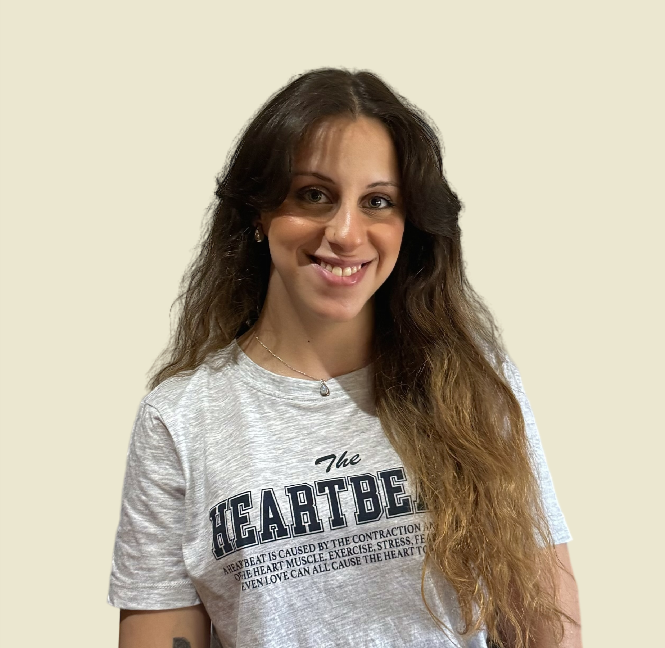
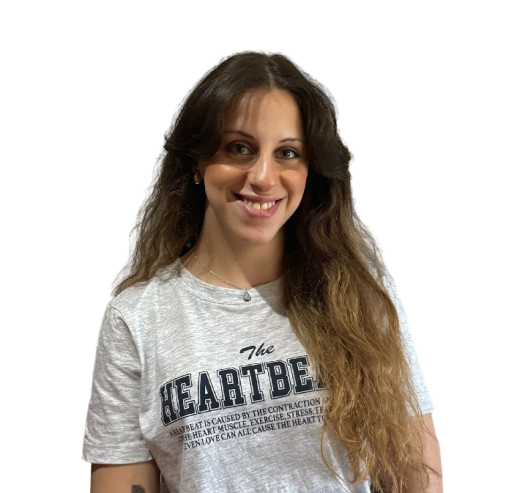
componentes de home, contact y aboutme hechos y estilizados

diff --git a/src/Pages/AbMePage/AbMePage.jsx b/src/Pages/AbMePage/AbMePage.jsx
@@ -1,9 +1,45 @@
 import "./AbMePage.css";
+import { FaHtml5 , FaCss3 , FaJs , FaReact , FaAngular , FaNodeJs , FaDatabase , FaGithubAlt } from 'react-icons/fa';
+
 
 function AbMePage() {
   return (
-    <div>
+    
+  <div className="divAbMe">
+   
+    <section className="about-me cardContact">
+    <h2 className="about-title">SOBRE MÍ</h2>
+    
+    <div className="about-content">
+      <p>
+        ¡Hola! Soy una <strong>desarrolladora web</strong> apasionada por crear experiencias digitales atractivas y funcionales.
+        Me encanta trabajar con tecnologías como <strong>React</strong>, <strong>JavaScript</strong> y <strong>CSS</strong>, enfocándome en la estética y la usabilidad.
+      </p>
+      <p>
+        Me gusta aprender constantemente y resolver retos creativos. Busco siempre escribir <strong>código limpio</strong> y aportar soluciones que marquen la diferencia.
+      </p>
+      <p>
+        Fuera del teclado disfruto compartiendo conocimientos, explorando nuevas herramientas y colaborando en proyectos que inspiren.
+      </p>
+      <h3 className="skills-title">Tecnologías que uso:</h3>
+      <ul className="skills-list">
+        <li><FaReact color="#1C7C8C" size="20px"/> React</li>
+        <li><FaJs color="#D1B400" size="20px" /> JavaScript</li>
+        <li><FaHtml5 color="#E34F26" size="20px" /> <FaCss3 color="#1572B6" size="20px"/> HTML & CSS</li>
+        <li><FaAngular color="#DD0031" size="20px" /> Angular</li>
+        <li><FaDatabase color="#4E4E4E" size="20px" /> MongoDB</li>
+        <li><FaNodeJs color="#5A8F43" size="20px" /> NodeJs</li>
+        <li><FaGithubAlt color="#6e5494" size="20px" /> GitHub</li>
+      </ul>
     </div>
+    </section>
+
+    <section>
+      <img className="myPhoto" src="src\images\foto1-CV.png" alt="imagen-mia" />
+    </section>
+
+  </div>
+
   )
 }
 

diff --git a/src/Pages/Home/Info/Info.jsx b/src/Pages/Home/Info/Info.jsx
@@ -1,5 +1,5 @@
 import "./Info.css";
-import { FaGithub, FaLinkedin } from 'react-icons/fa';
+import { FaGithub, FaLinkedin, FaPhoneAlt , FaEnvelope } from 'react-icons/fa';
 
 function Info() {
   return (
@@ -9,11 +9,11 @@ function Info() {
         Raquel Manajreh Alaboud
     </h2>
       <p>
-        📧 raquel.fsdev@gmail.com
+      <FaEnvelope style={{ color: '#2A2A2A', fontSize: '18px' }} /> raquel.fsdev@gmail.com
       </p>
-      <p>📱+34 608076099</p>
-      <p><FaGithub className="icons" style={{ color: '#1A1A1A', fontSize: '20px' }} /><a className="rrss" href="https://github.com/raquel-manajreh" target="_blank">GitHub</a></p>
-        <p><FaLinkedin className="icons" style={{ color: '#1A1A1A', fontSize: '20px' }} /><a className="rrss" href="https://www.linkedin.com/in/raquel-manajreh-alaboud-396811321/" target="_blank">
+      <p><FaPhoneAlt style={{ color: '#2A2A2A', fontSize: '18px' }}/> +34 608076099</p>
+      <p><FaGithub className="icons" style={{ color: '#2A2A2A', fontSize: '18px' }} /><a className="rrss" href="https://github.com/raquel-manajreh" target="_blank">GitHub</a></p>
+        <p><FaLinkedin className="icons" style={{ color: '#2A2A2A', fontSize: '18px' }} /><a className="rrss" href="https://www.linkedin.com/in/raquel-manajreh-alaboud-396811321/" target="_blank">
         Linkedin
         </a></p>
     </div>

diff --git a/src/Pages/AbMePage/AbMePage.css b/src/Pages/AbMePage/AbMePage.css
@@ -1,0 +1,60 @@
+.divAbMe{
+    display: flex;
+    flex-direction: row;
+    align-items: center;
+    gap: 60px;
+}
+.about-me {
+    padding: 30px 30px 0px 30px;
+    border-radius: 20px;
+    margin-left: 150px;
+    max-width: 640px;
+    height: 500px;
+    box-shadow: 0 4px 12px rgba(0,0,0,0.1);
+  }
+  
+  .about-title {
+    font-size: 36px;
+    text-align: center;
+    color: #333;
+    margin-bottom: 20px;
+  }
+  
+  .about-content p {
+    font-size: 18px;
+    line-height: 1.6;
+    color: #444;
+  }
+  
+  .skills-title {
+    font-size: 22px;
+    margin-top: 25px;
+    color: #333;
+  }
+  
+  .skills-list {
+    list-style: none;
+    padding: 0;
+    display: flex;
+    flex-wrap: wrap;
+    gap: 12px;
+    margin-top: 16px;
+  }
+  
+  .skills-list li {
+    background-color: #d1b796;
+    padding: 6px 12px;
+    border-radius: 12px;
+    font-size: 16px;
+    color: #2d2d2d;
+    box-shadow: 2px 2px 5px rgba(0,0,0,0.1);
+  }
+  .myPhoto{
+    width: 400px;
+    height: auto;
+    /* background: rgba(91, 73, 43, 0.616); */
+    background: rgba(136, 118, 82, 0.478);
+    border-radius: 12px;
+  box-shadow: 0 0 20px 8px rgba(136, 118, 82, 0.478);
+  }
+  

diff --git a/src/components/NavBar/NavBar.jsx b/src/components/NavBar/NavBar.jsx
@@ -5,12 +5,12 @@ function NavBar({setCurrentPage}) {
    <header>
      <nav className="navBar">
           <ul className="ulList">
-              <li><button onClick={()=> setCurrentPage("home")} className="home">Home</button></li>
+              <li><button onClick={()=> setCurrentPage("home")} className="home">HOME</button></li>
               <li><button 
               onClick={()=> setCurrentPage("aboutMe")} 
-              className="aboutMe">About Me</button></li>
-              <li><button onClick={()=> setCurrentPage("contact")} className="contact">Contact</button></li>
-              <li><button className="projects">Projects</button></li>
+              className="aboutMe">ABOUT ME</button></li>
+              <li><button onClick={()=> setCurrentPage("contact")} className="contact">CONTACT</button></li>
+              <li><button className="projects">PROJECTS</button></li>
           </ul>
      </nav>
    </header> 

diff --git a/src/components/NavBar/NavBar.css b/src/components/NavBar/NavBar.css
@@ -23,7 +23,7 @@ button:hover {
 }
 
 .ulList{
-    font-size: 16px;
+    font-size: 14px;
     color: white;
     list-style: none;
     font-family: inherit;
@@ -36,14 +36,13 @@ button:hover {
     margin: 0px 500px 0px 100px;
     font-size: 18px;
     text-shadow: 0px 0px 8px rgba(255, 255, 255, 1);
-    color: #ffffff;
- 
+    color: #ffffff; 
 }
 
 .aboutMe{
     background: none;
     color: #ffffff;
-    padding: 0px 70px 0px 80px;  /*Mover a partir de aqui a la derecha */
+    padding: 0px 80px 0px 80px;  /*Mover a partir de aqui a la derecha */
     margin-top: 10px;
 }
 

diff --git a/src/Pages/Home/Home.css b/src/Pages/Home/Home.css
@@ -90,8 +90,9 @@ text-shadow:
   width: 100vw;
   padding: 20px;
   box-sizing: border-box;
-  margin-top: 18px;
-  border: 1px dashed #1e364e;
+  margin-top: 15px;
+  box-shadow: 0 0 20px 8px #222b34;
+
 }
 
 /* Estructura del "smartphone" */
